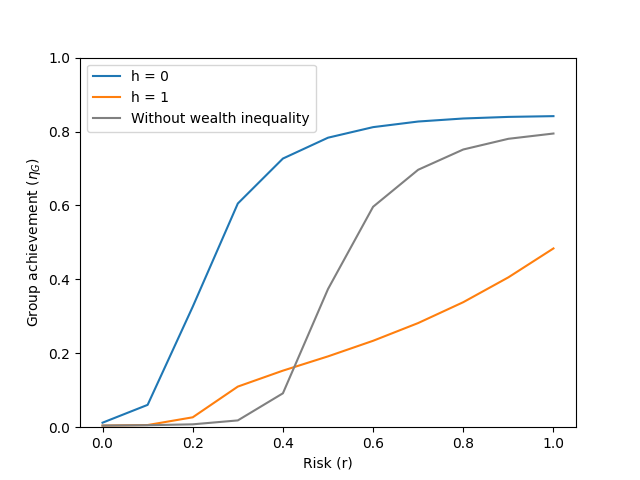
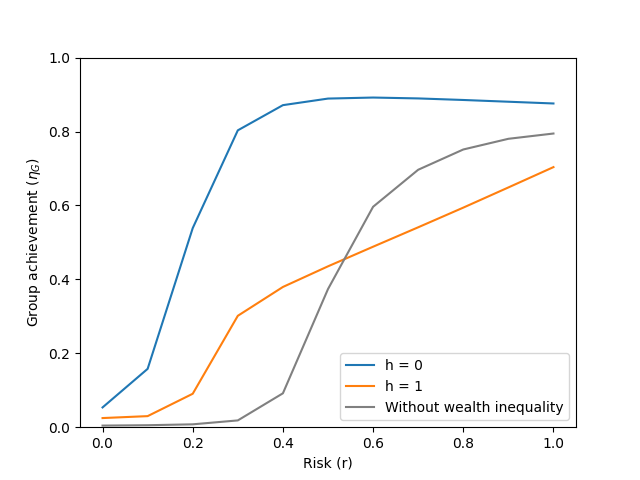
correction

diff --git a/src/plot_group_achievement.py b/src/plot_group_achievement.py
@@ -134,8 +134,8 @@ for hom in homophily:
                 aG_i = 0.0
                 for rc in range(N): # rc represent the number of rich cooperator in the group
                     for pc in range(N) : # pc represent the number of poor cooperator in the group
-                        # if(rc*c_r + pc*c_p) > Mcb_threshold and(rc + pc) <= N: # Other method, verifies if there are enough contribution to reach the threshold
-                        if(rc + pc) > M_thresh and(rc + pc) <= N: # if there are enough cooperators to reach the threshold
+                        if(rc*c_r + pc*c_p) >= Mcb_threshold and(rc + pc) <= N: # Other method, verifies if there are enough contribution to reach the threshold
+                        # if(rc + pc) >= M_thresh and(rc + pc) <= N: # if there are enough cooperators to reach the threshold
                             for rd in range(N): # rd represent the number of rich defectors in the group
                                 if(rc + pc + rd <= N):
                                     for pd in range(N): # pd represent the number of poor defectors in the group
@@ -211,7 +211,8 @@ for risk in risks:
             aG_i = 0.0
             for rc in range(N): # rc represent the number of rich cooperator in the group
                 for pc in range(N) : # pc represent the number of poor cooperator in the group
-                    if(rc + pc) > M_thresh and(rc + pc) <= N: # if there are enough cooperators to reach the threshold
+                    if(rc + pc) >= M_thresh and(rc + pc) <= N: # if there are enough cooperators to reach the threshold
+                    # if(rc*c_r + pc*c_p) >= Mcb_threshold and(rc + pc) <= N:
                         for rd in range(N): # rd represent the number of rich defectors in the group
                             if(rc + pc + rd <= N):
                                 for pd in range(N): # pd represent the number of poor defectors in the group

diff --git a/src/plot_gradient.py b/src/plot_gradient.py
@@ -137,7 +137,7 @@ for rich_coop in tqdm(range(obstinate_coop[0], Zr + 1 - obstinate_defector[0])):
         aG_i = 0.0
         for rc in range(N): # rc represent the number of rich cooperator in the group
             for pc in range(N) : # pc represent the number of poor cooperator in the group
-                if(rc + pc) > M_thresh and(rc + pc) <= N: # if there are enough cooperators to reach the threshold
+                if(rc + pc) >= M_thresh and(rc + pc) <= N: # if there are enough cooperators to reach the threshold
                     for rd in range(N): # rd represent the number of rich defectors in the group
                         if(rc + pc + rd <= N):
                             for pd in range(N): # pd represent the number of poor defectors in the group
